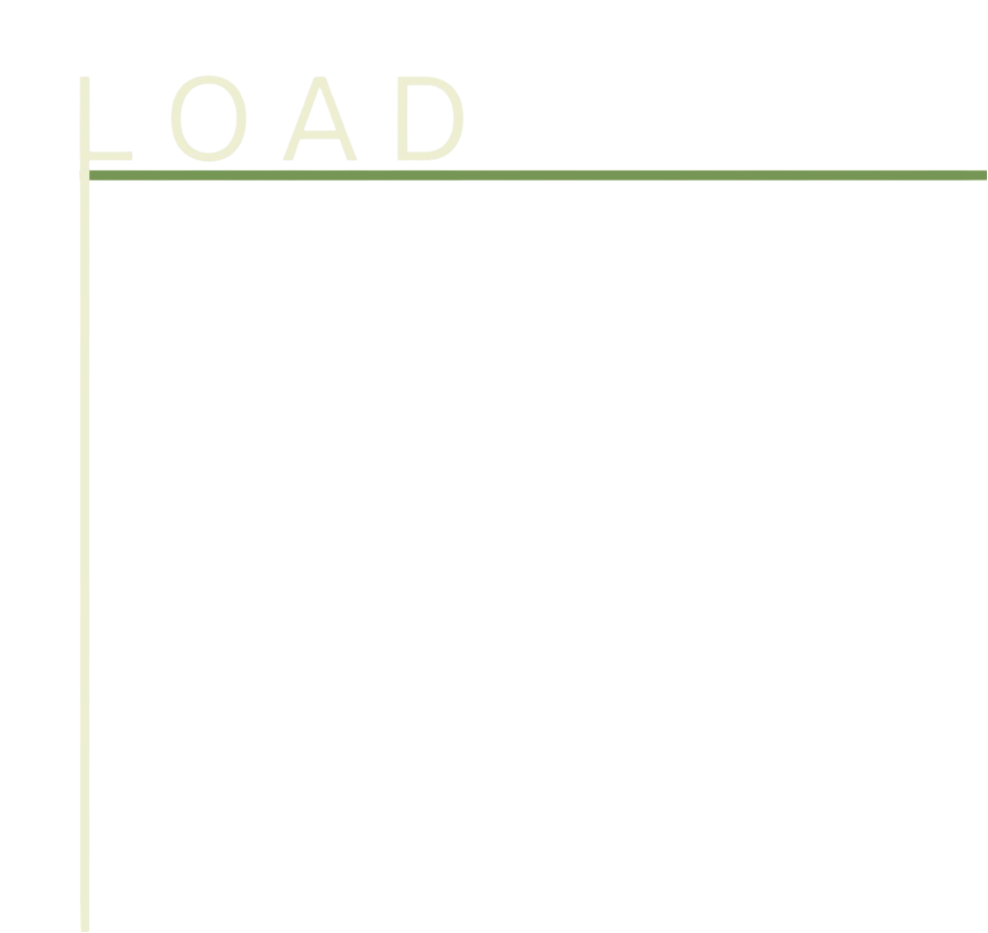
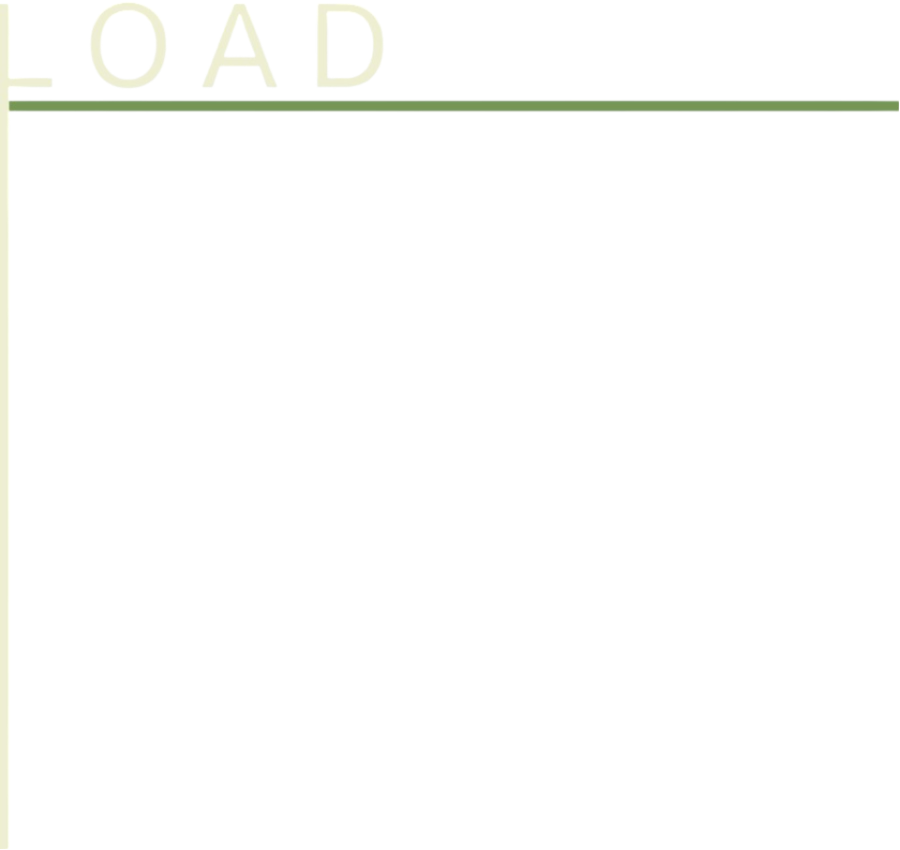
temp push
GUI is finished, still need to work on handling buttons' events

Changed region(s): [[0.0, 0.0, 1.0, 1.0]]

diff --git a/src/main.cpp b/src/main.cpp
@@ -47,9 +47,9 @@ SDL_Texture *loadTexture(const std::string &path)
     return texture;
 }
 
-SDL_Texture *loadSVGTexture(const char *filePath, int width, int height, double scale)
+SDL_Texture *loadSVGTexture(std::string filePath, int width, int height, double scale)
 {
-    struct NSVGimage *image = nsvgParseFromFile(filePath, "px", 96);
+    struct NSVGimage *image = nsvgParseFromFile(filePath.c_str(), "px", 96);
     if (!image)
     {
         printf("Failed to load SVG file.\n");
@@ -236,6 +236,7 @@ int main(int argc, char *args[])
     const int startMenuBtnWidth = 500;
     const int startMenuBtnHeight = 100;
     SDL_Color startMenuBtnColor = {118, 150, 85, 255};
+    SDL_Color loadMenuBtnColor = {38, 37, 33, 1};
     SDL_Color white = {255, 255, 255, 255};
     Button startBtn(renderer, (SCREEN_WIDTH - startMenuBtnWidth) / 2, 350, startMenuBtnWidth, startMenuBtnHeight, startMenuBtnColor, white, "Start", font);
     Button loadBtn(renderer, (SCREEN_WIDTH - startMenuBtnWidth) / 2, 500, startMenuBtnWidth, startMenuBtnHeight, startMenuBtnColor, white, "Load", font);
@@ -255,9 +256,15 @@ int main(int argc, char *args[])
     SDL_Texture *bottomPanelTexture = loadTexture("./assets/bottom_panel.svg");
 
     // Initialize load menu
-    SDL_Rect loadInfos = {SIDE_MARGIN, SIDE_MARGIN, 933, 988};
+    SDL_Rect loadInfos = {60, 80, 900, 850};
     SDL_Texture *loadMenuTexture = loadTexture("./assets/load.png");
     TTF_Font *loadMenuFont = TTF_OpenFont("C:/Windows/Fonts/arial.ttf", 24);
+    SDL_Rect loadMenuSeperateLine = {360, 240, 5, 600};
+
+    Board demoBoard(renderer, board1Primary, board2Primary, bgColor);
+    demoBoard.setBoardSize(50);
+    demoBoard.setMargin(480, 240);
+
     if (!font)
     {
         SDL_Log("Failed to load Load_menu font: %s", TTF_GetError());
@@ -280,12 +287,20 @@ int main(int argc, char *args[])
             if (files[i].substr(j, 4) == ".txt")
             {
                 name = files[i].substr(j - 7, 7);
+                // std::cerr << name << "\n";
                 break;
-            };
-
-            loadFileBtns.push_back(Button(renderer, SIDE_MARGIN, 240 + i * 90, 250, 60, startMenuBtnColor, white, name.c_str(), loadMenuFont));
+            }
         }
+
+        loadFileBtns.push_back(Button(renderer, 60, 240 + i * 90, 250, 60, loadMenuBtnColor, white, name, loadMenuFont));
+        // std::cerr << "name: " << loadFileBtns[i].getText() << "\n";
     }
+
+    // for (Button btn : loadFileBtns)
+    // {
+    //     std::cerr << "Adress: " << btn << "\n";
+    //     std::cerr << btn.getX() << " " << btn.getY() << " " << btn.getText() << " " << btn.getPrevText() << "\n";
+    // }
 
     while (running)
     {
@@ -360,41 +375,62 @@ int main(int argc, char *args[])
                 }
 
                 //     // Handle button events
-                for (int i = 0; i < files.size(); i++)
+                for (Button btn : loadFileBtns)
                 {
-                    loadFileBtns[i].handleEvent(&event);
+                    btn.handleEvent(&event);
                 }
             }
 
             // Render logo
             SDL_RenderCopy(renderer, loadMenuTexture, NULL, &loadInfos);
+            SDL_SetRenderDrawColor(renderer, 238, 238, 210, 255);
+            SDL_RenderFillRect(renderer, &loadMenuSeperateLine);
+            demoBoard.renderChessboard();
 
-            //Render Buttons
-            for (int i = 0; i < files.size(); i++)
+            // Render Buttons
+            for (Button btn : loadFileBtns)
             {
-                loadFileBtns[i].render();
+                btn.render();
+                // std::cerr << loadFileBtns[i].getX() << " " << loadFileBtns[i].getY() << "\n";
             }
 
             // Update screen
             SDL_RenderPresent(renderer);
-    
+
+            // Handle button hover
+
+            // for (int i = 0; i < loadFileBtns.size(); i++)
+            // {
+            //     if (loadFileBtns[i].hover())
+            //     {
+            //         loadGame(demoBoard, files[i]);
+            //         SDL_Log("Button hovering!");
+            //         demoBoard.renderFromFen();
+            //         demoBoard.present();
+            //         loadFileBtns[i].reset(); // Reset button state
+            //     }
+            // }
+
             // Handle button click
-            for (int i = 0; i < files.size(); i++)
+            for (int i = 0; i < loadFileBtns.size(); i++)
             {
                 if (loadFileBtns[i].clicked())
                 {
-                    SDL_Log("Button clicked!");
-                    // loadGame(board, files[i]);
+                    std::cerr<< "Button clicked!\n";
+                    loadGame(demoBoard, files[i]);
                     isOn = GAME;
                     loadFileBtns[i].reset(); // Reset button state
                 }
             }
 
             // Clear buttons
-            for (int i = 0; i < files.size(); i++)
+            for (Button btn : loadFileBtns)
             {
-                loadFileBtns[i].clear();
+                btn.clear();
             }
+
+            demoBoard.clear();
+            // SDL_Delay(2000);
             break;
         }
         case GAME:

diff --git a/src/button.cpp b/src/button.cpp
@@ -5,7 +5,7 @@
 
 Button::Button(SDL_Renderer *renderer) : renderer(renderer) {}
 
-Button::Button(SDL_Renderer *renderer, int x, int y, int w, int h, SDL_Color color, SDL_Color textColor, const char *text, TTF_Font *font)
+Button::Button(SDL_Renderer *renderer, int x, int y, int w, int h, SDL_Color color, SDL_Color textColor, std::string text, TTF_Font *font)
     : renderer(renderer), color(color), textColor(textColor), text(text), font(font), isClicked(false)
 {
     rect = {x, y, w, h};
@@ -19,7 +19,7 @@ void Button::renderRect(SDL_Renderer *renderer, SDL_Rect rect, SDL_Color color)
 }
 
 // Function to render SVG with text in the middle
-void Button::renderSVG(const char *svgFilePath, double scale)
+void Button::renderSVG(std::string svgFilePath, double scale)
 {
     const int width = rect.w;
     const int height = rect.h;
@@ -31,7 +31,7 @@ void Button::renderSVG(const char *svgFilePath, double scale)
     }
 
     // Load SVG image
-    NSVGimage *image = nsvgParseFromFile(svgFilePath, "px", 96);
+    NSVGimage *image = nsvgParseFromFile(svgFilePath.c_str(), "px", 96);
     if (!image)
     {
         printf("Could not open SVG image.\n");
@@ -82,7 +82,12 @@ void Button::renderSVG(const char *svgFilePath, double scale)
     SDL_DestroyTexture(svgTexture);
 
     // Render text
-    SDL_Surface *textSurface = TTF_RenderText_Solid(font, text, textColor);
+    if (text.empty())
+    {
+        std::cerr << "Text is empty\n";
+        return;
+    }
+    SDL_Surface *textSurface = TTF_RenderText_Solid(font, text.c_str(), textColor);
     SDL_Texture *textTexture = SDL_CreateTextureFromSurface(renderer, textSurface);
     int textWidth = textSurface->w;
     int textHeight = textSurface->h;
@@ -97,11 +102,11 @@ void Button::render()
     // Render button rect
     renderRect(renderer, rect, color);
 
-    // // Render rectBefore
-    // renderRect(renderer, {rect.x, rect.y, 20, rect.h}, {238, 238, 210, 255});
+    // Render rectBefore
+    renderRect(renderer, {rect.x, rect.y, 20, rect.h}, {238, 238, 210, 255});
 
     // // Render text
-    SDL_Surface *textSurface = TTF_RenderText_Solid(font, text, textColor);
+    SDL_Surface *textSurface = TTF_RenderText_Solid(font, text.c_str(), textColor);
     SDL_Texture *textTexture = SDL_CreateTextureFromSurface(renderer, textSurface);
     int textWidth = textSurface->w;
     int textHeight = textSurface->h;
@@ -113,7 +118,9 @@ void Button::render()
 
 void Button::handleEvent(SDL_Event *e)
 {
-    if (e->type == SDL_MOUSEBUTTONDOWN)
+    switch (e->type)
+    {
+    case SDL_MOUSEBUTTONDOWN:
     {
         int x, y;
         SDL_GetMouseState(&x, &y);
@@ -139,7 +146,39 @@ void Button::handleEvent(SDL_Event *e)
         if (inside)
         {
             isClicked = true;
+            std::cerr << "clicked\n";
         }
+        break;
+    }
+    case SDL_MOUSEMOTION:
+    {
+        int x, y;
+        SDL_GetMouseState(&x, &y);
+        isInside = true;
+
+        if (x < rect.x)
+        {
+            isInside = false;
+        }
+        else if (x > rect.x + rect.w)
+        {
+            isInside = false;
+        }
+        else if (y < rect.y)
+        {
+            isInside = false;
+        }
+        else if (y > rect.y + rect.h)
+        {
+            isInside = false;
+        }
+
+        if (isInside)
+        {
+            std::cerr << "hovering\n";
+        }
+        break;
+    }
     }
 }
 
@@ -148,7 +187,13 @@ bool Button::clicked() const
     return isClicked;
 }
 
+bool Button::hover() const
+{
+    return isInside;
+}
+
 void Button::reset()
 {
+    isInside = false;
     isClicked = false;
 }

diff --git a/include/button.h b/include/button.h
@@ -10,21 +10,22 @@ private:
     SDL_Rect rect;
     SDL_Color color;
     SDL_Color textColor;
-    const char *text;
+    std::string text;
     TTF_Font *font;
     SDL_Renderer *renderer;
     SDL_Surface *surface;
     bool isClicked;
+    bool isInside;
 
     void renderRect(SDL_Renderer *renderer, SDL_Rect rect, SDL_Color color);
-    // SDL_Texture *loadTexture(const char *filePath, int width, int height, double scale);
+    // SDL_Texture *loadTexture(std::string filePath, int width, int height, double scale);
 
 public:
     Button(SDL_Renderer *renderer);
-    Button(SDL_Renderer *renderer, int x, int y, int w, int h, SDL_Color color, SDL_Color textColor, const char *text, TTF_Font *font);
+    Button(SDL_Renderer *renderer, int x, int y, int w, int h, SDL_Color color, SDL_Color textColor, std::string text, TTF_Font *font);
 
     void render();
-    void renderSVG(const char *svgFilePath, double scale);
+    void renderSVG(std::string svgFilePath, double scale);
     // Update renderer
     void present() const { SDL_RenderPresent(renderer); }
     // Clear renderer
@@ -32,5 +33,17 @@ public:
 
     void handleEvent(SDL_Event *e);
     bool clicked() const;
+    bool hover() const;
     void reset();
+
+    // Get infos
+    int getY() {
+        return rect.y;
+    }
+    int getX() {
+        return rect.x;
+    }
+    std::string getText() {
+        return text;
+    }
 };

diff --git a/src/board.cpp b/src/board.cpp
@@ -65,6 +65,15 @@ SDL_Texture *Board::loadTexture(const char *filePath, int width, int height, dou
 //     return texture;
 // }
 
+void Board::setMargin(int sideMargin, int topMargin){
+    SIDE_MARGIN = sideMargin;
+    TOP_MARGIN = topMargin;
+}
+
+void Board::setBoardSize(int boardSize){
+    SIDE_LENGTH = boardSize;
+}
+
 void Board::loadTextures()
 {
     /*
@@ -167,14 +176,14 @@ bool Board::checkBoardSeq()
     return true;
 }
 
-void Board::renderStartingPosition(std::string seq)
+void Board::renderPiecesFromFen(std::string fen)
 {
     // Translate FEN notation's chess placements into an 8x8 array
     // Direction: Left to Right, Top down
-    std::cerr << seq << "\n";
-    for (int i = 0, row = 0, column = 0; i <= seq.length(); i++)
+    std::cerr << fen << "\n";
+    for (int i = 0, row = 0, column = 0; i <= fen.length(); i++)
     {
-        char currentChar = seq[i];
+        char currentChar = fen[i];
 
         // If there's a chess piece, place it on the board
         int pieceIndicator;
@@ -538,6 +547,15 @@ void Board::render()
     // background.render(backgroundColor);
     renderChessboard();
     renderFromBoard();
+}
+
+void Board::renderFromFen()
+{
+    setRendererColor(backgroundColor);
+    clear();
+    // background.render(backgroundColor);
+    renderChessboard();
+    renderPiecesFromFen(CURRENT_FEN);
 }
 
 void Board::setBackground(colorRGBA bg)

diff --git a/include/board.h b/include/board.h
@@ -14,10 +14,10 @@ class Board
 private:
     SDL_Renderer *renderer = NULL;
     // Background background;
-    const int TOP_MARGIN = 200;
-    const int BOTOTM_MARGIN = 80;
-    const int SIDE_MARGIN = 80;
-    const int SIDE_LENGTH = 80;
+    int TOP_MARGIN = 200;
+    int BOTTOM_MARGIN = 80;
+    int SIDE_MARGIN = 80;
+    int SIDE_LENGTH = 80;
     static const int BOARD_SIZE = 8;
     char board[BOARD_SIZE][BOARD_SIZE];
     bool isMoved[BOARD_SIZE][BOARD_SIZE];
@@ -77,6 +77,10 @@ public:
         // std::cerr << "Rendering at " << x << " " << y << "\n";
     }
 
+    void setBoardSize(int boardSize);
+
+    void setMargin(int sideMargin, int topMargin);
+
     // Game Update, with data taken in as boardSequence[1 -> 5], which are strings
     void updateFen(std::string fen);
 
@@ -95,7 +99,7 @@ public:
 
     void renderChessboard();
 
-    void renderStartingPosition(std::string seq);
+    void renderPiecesFromFen(std::string fen);
 
     void renderIndex(colorRGBA primary, colorRGBA secondary, bool rotationFlag);
 
@@ -170,6 +174,8 @@ public:
     void setColor(colorRGBA primary, colorRGBA secondary);
 
     void render();
+
+    void renderFromFen();
 
     void setBackground(colorRGBA bg);
 
